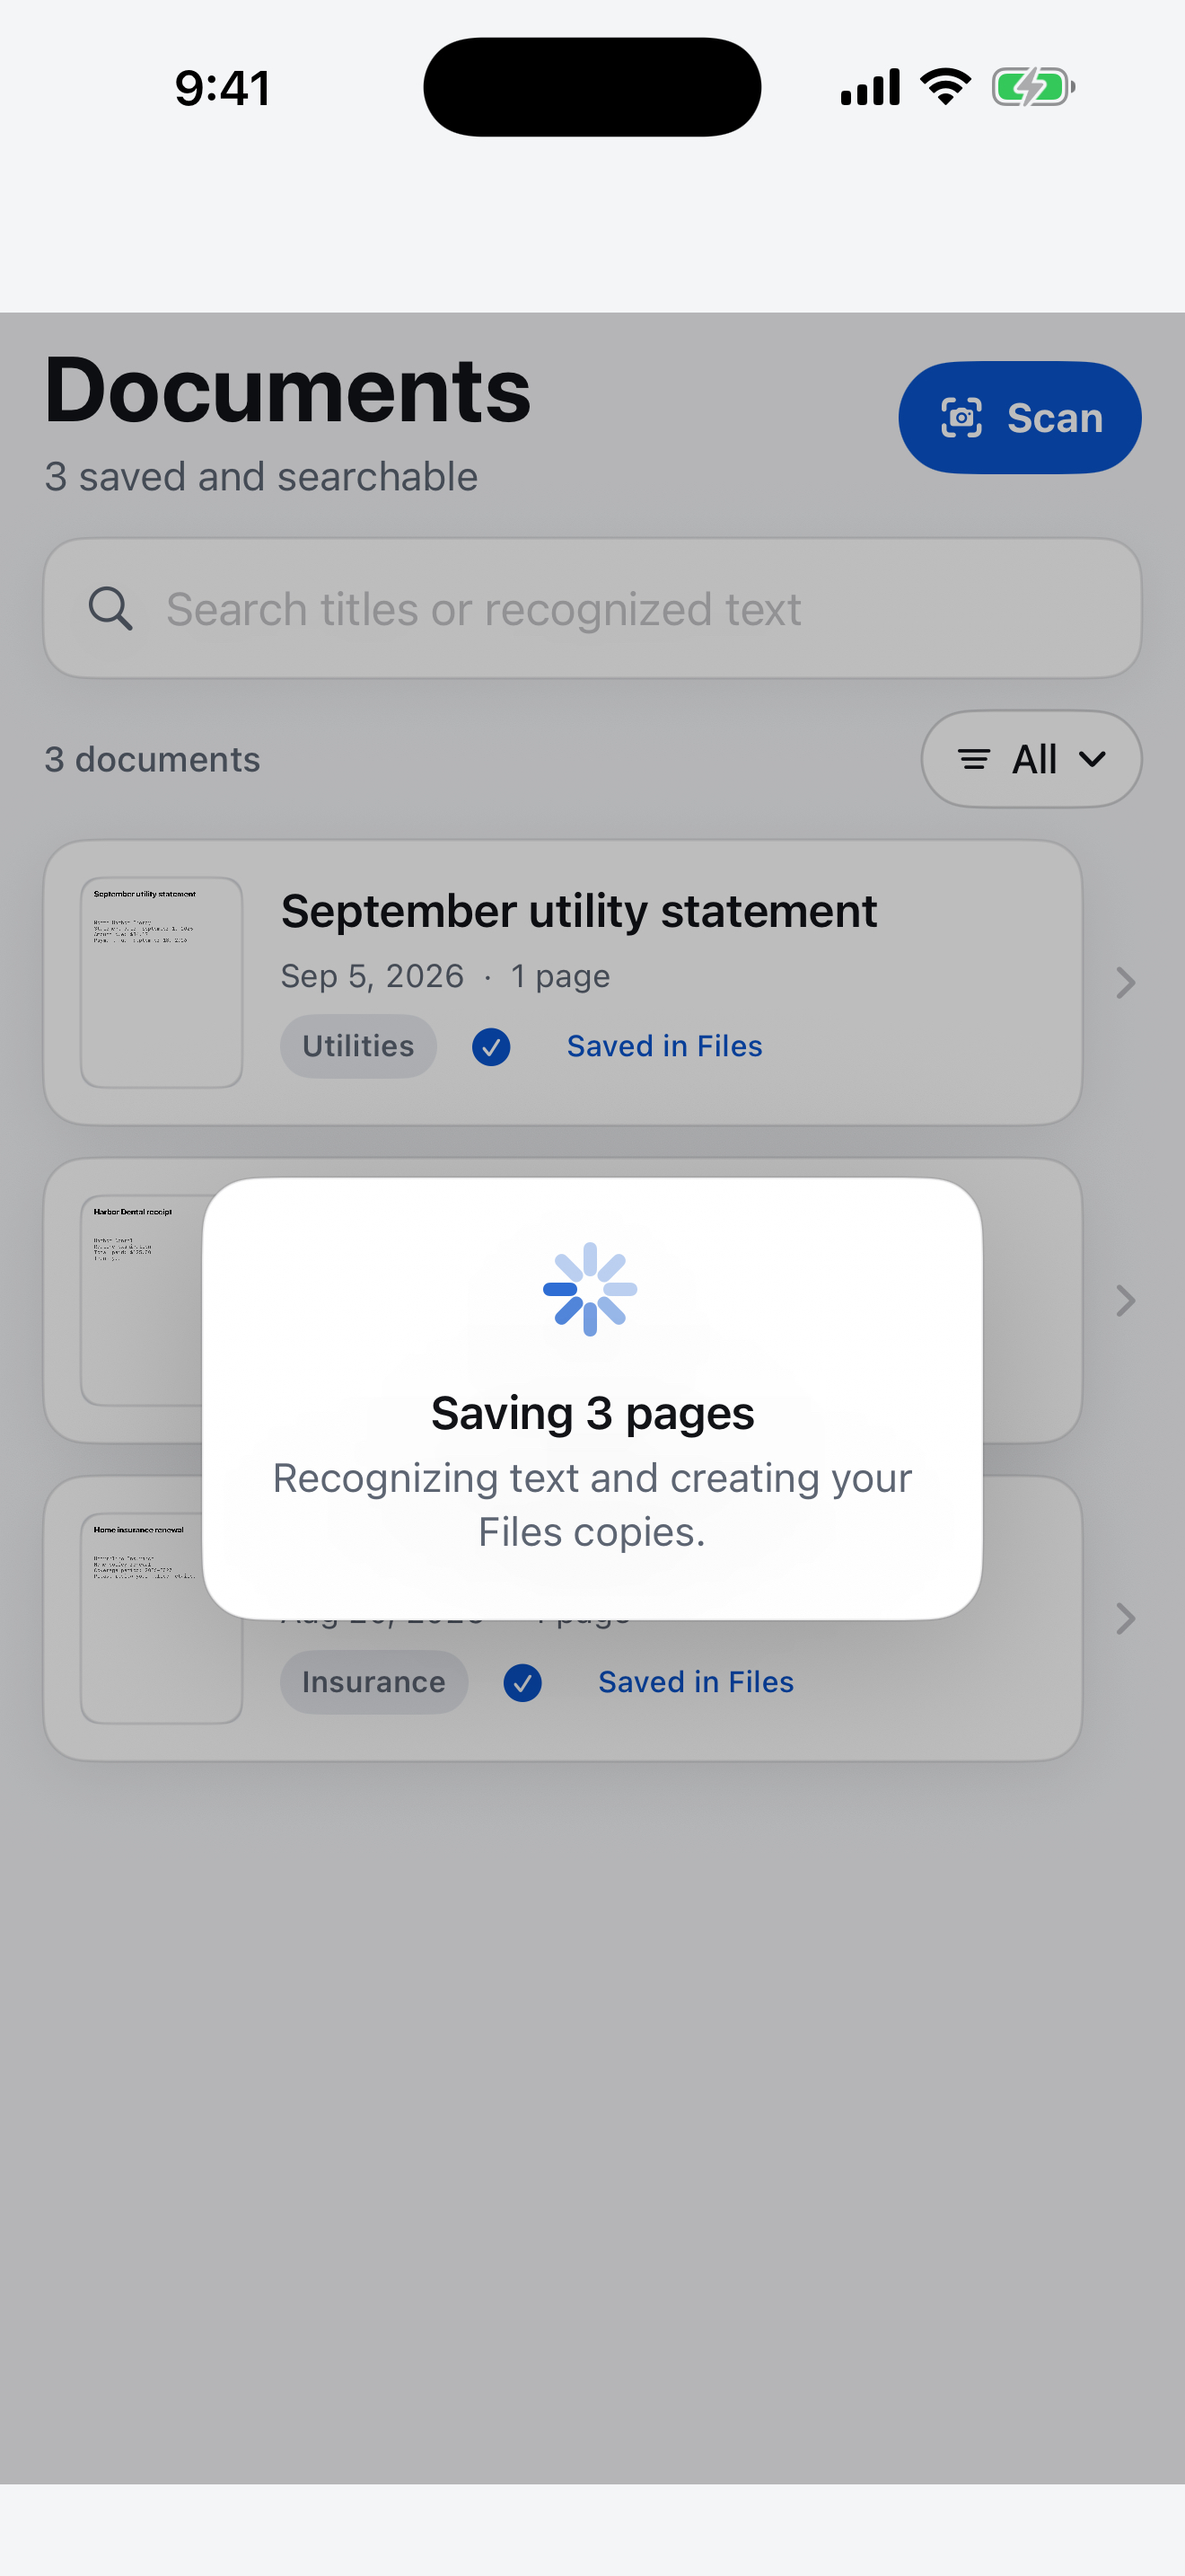
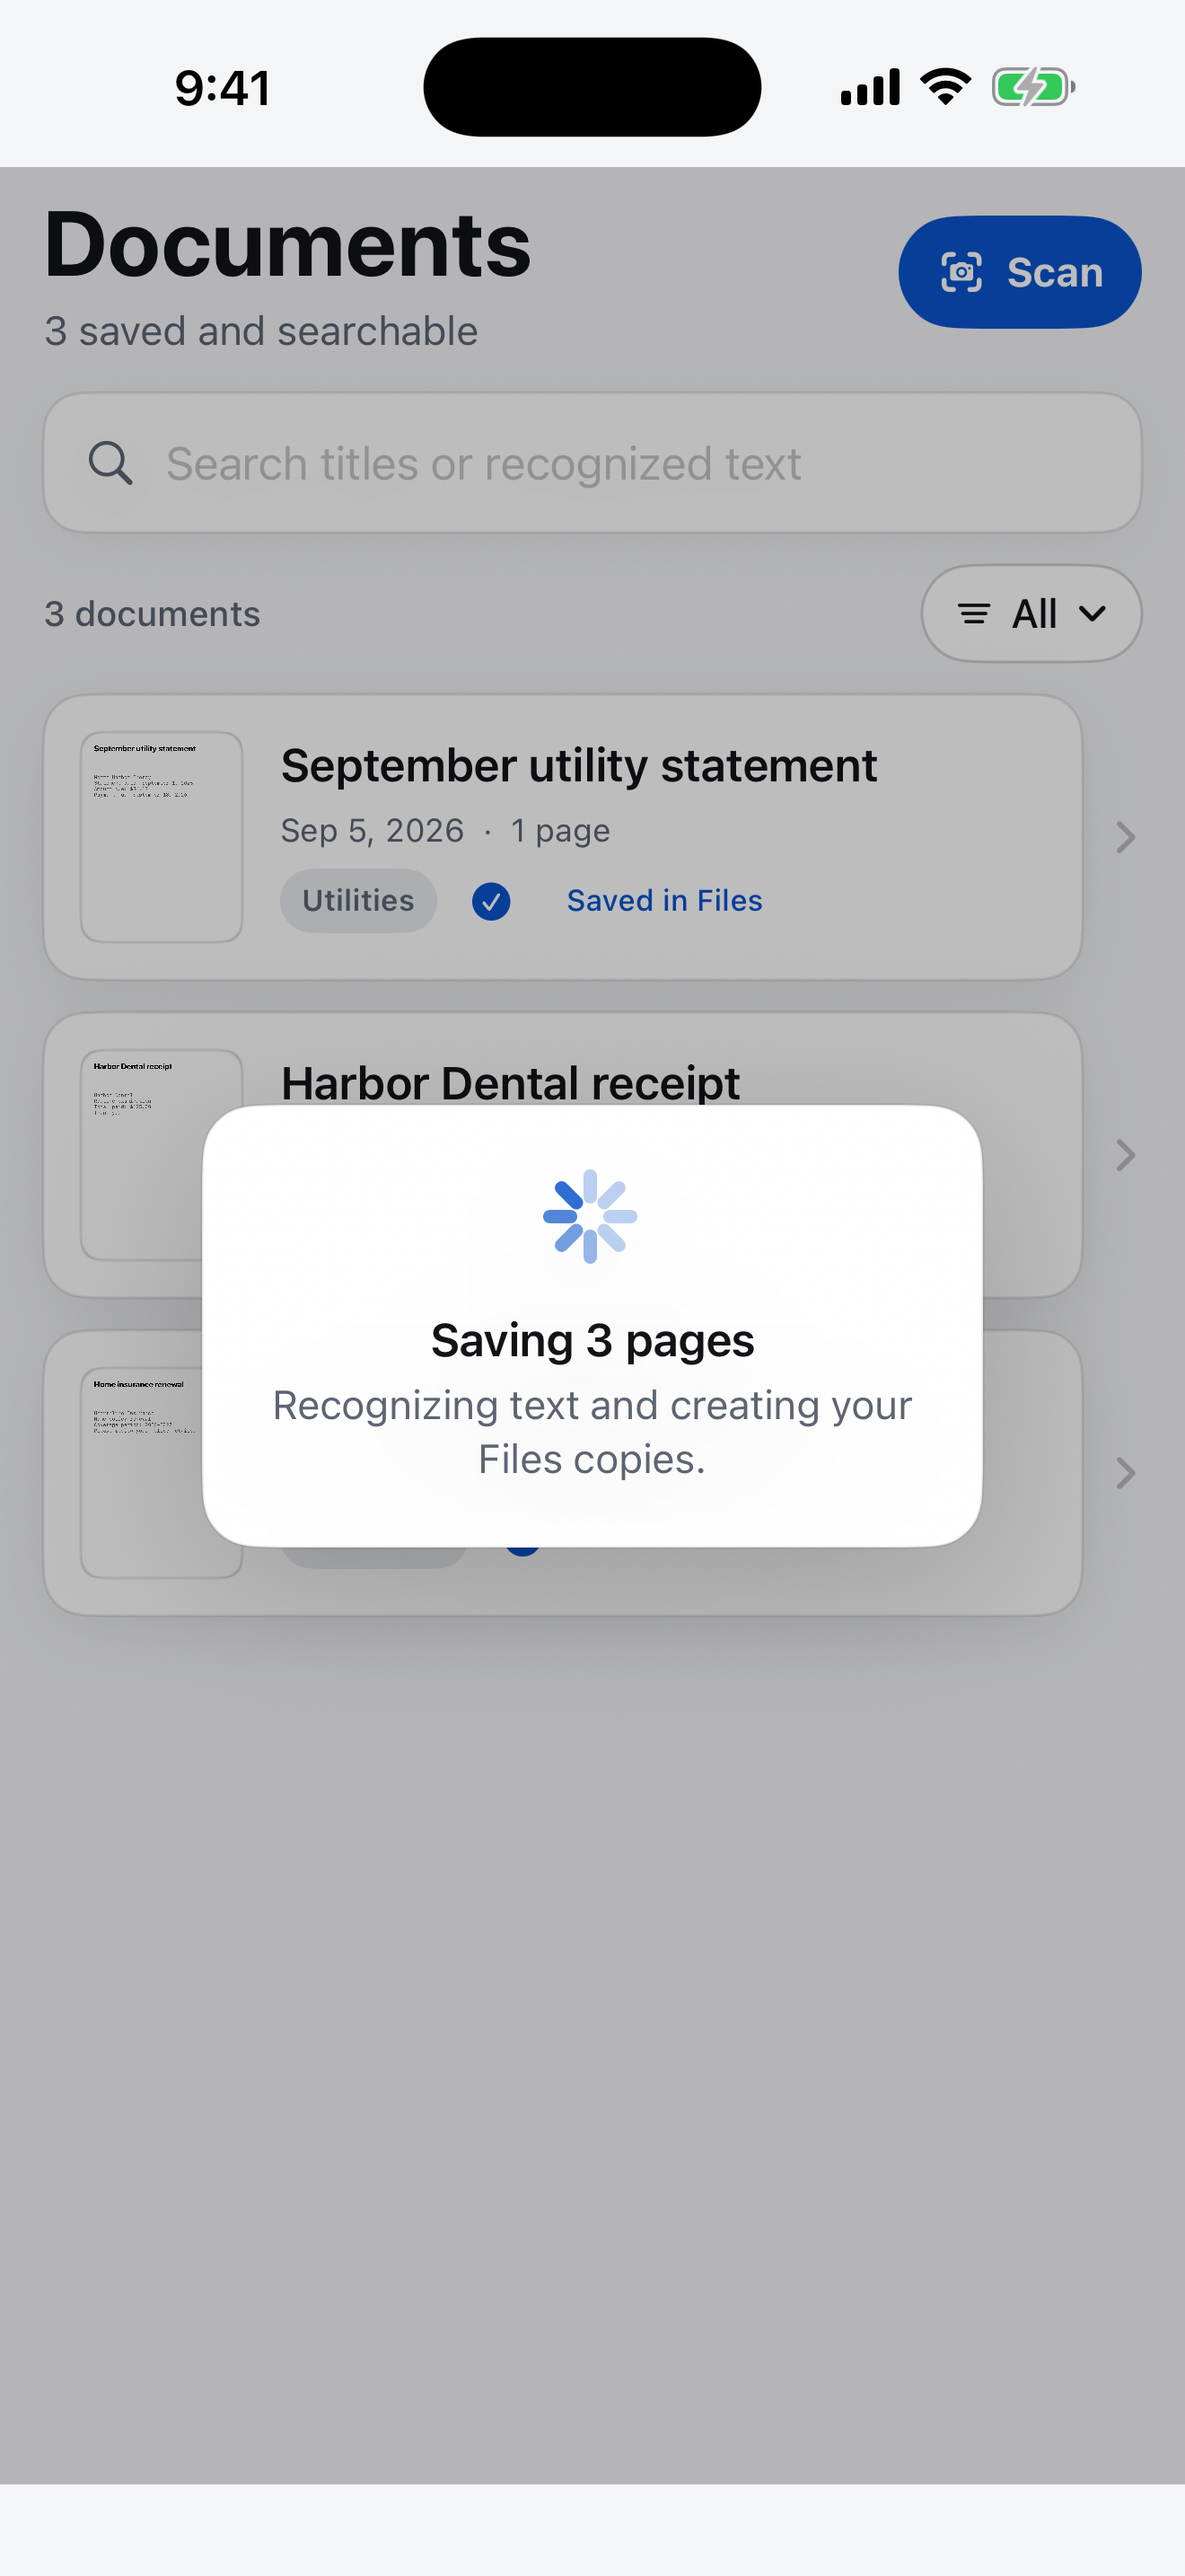
Tighten archive header spacing

diff --git a/DocScan/ContentView.swift b/DocScan/ContentView.swift
@@ -101,10 +101,7 @@ struct ContentView: View {
             .listStyle(.plain)
             .scrollContentBackground(.hidden)
             .background(DocScanStyle.background)
-            .navigationTitle("")
-            .navigationBarTitleDisplayMode(.inline)
-            .toolbarBackground(DocScanStyle.background, for: .navigationBar)
-            .toolbarBackground(.visible, for: .navigationBar)
+            .toolbar(.hidden, for: .navigationBar)
             .tint(DocScanStyle.blue)
             .navigationDestination(for: UUID.self) { documentID in
                 if let document = documents.first(where: { $0.id == documentID }) {

diff --git a/DocScan/Views/DocumentDetailView.swift b/DocScan/Views/DocumentDetailView.swift
@@ -39,6 +39,7 @@ struct DocumentDetailView: View {
         .background(DocScanStyle.background)
         .navigationTitle(document.title)
         .navigationBarTitleDisplayMode(.inline)
+        .toolbar(.visible, for: .navigationBar)
         .toolbarBackground(DocScanStyle.background, for: .navigationBar)
         .toolbarBackground(.visible, for: .navigationBar)
         .toolbar {
